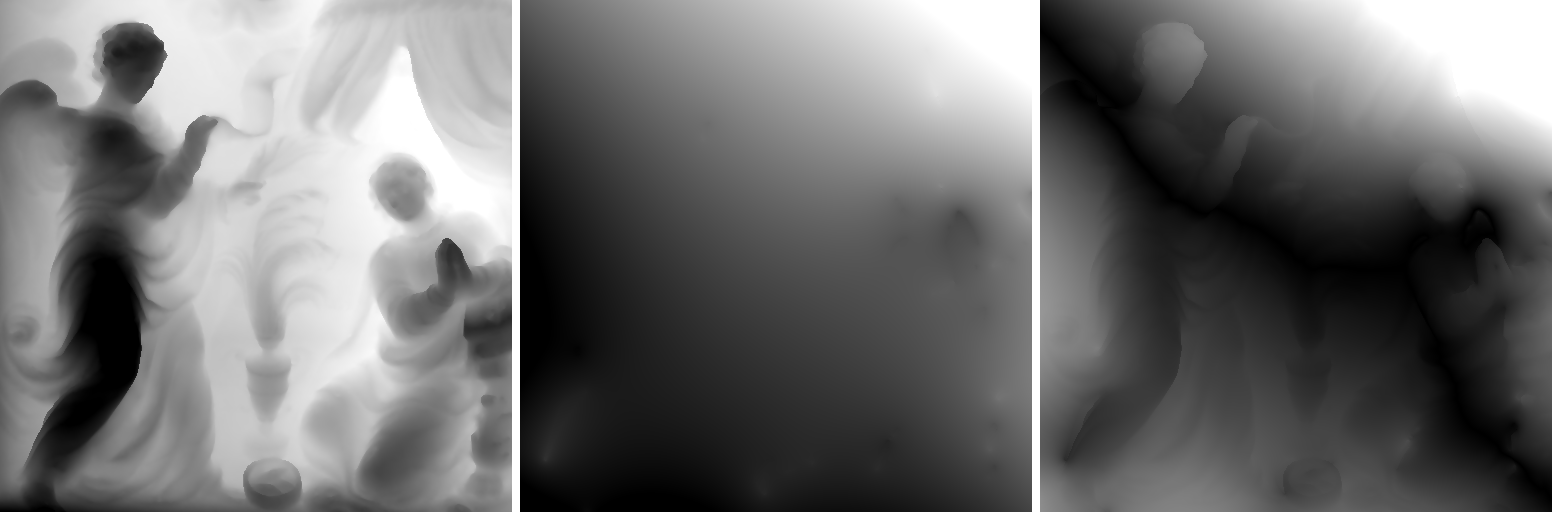
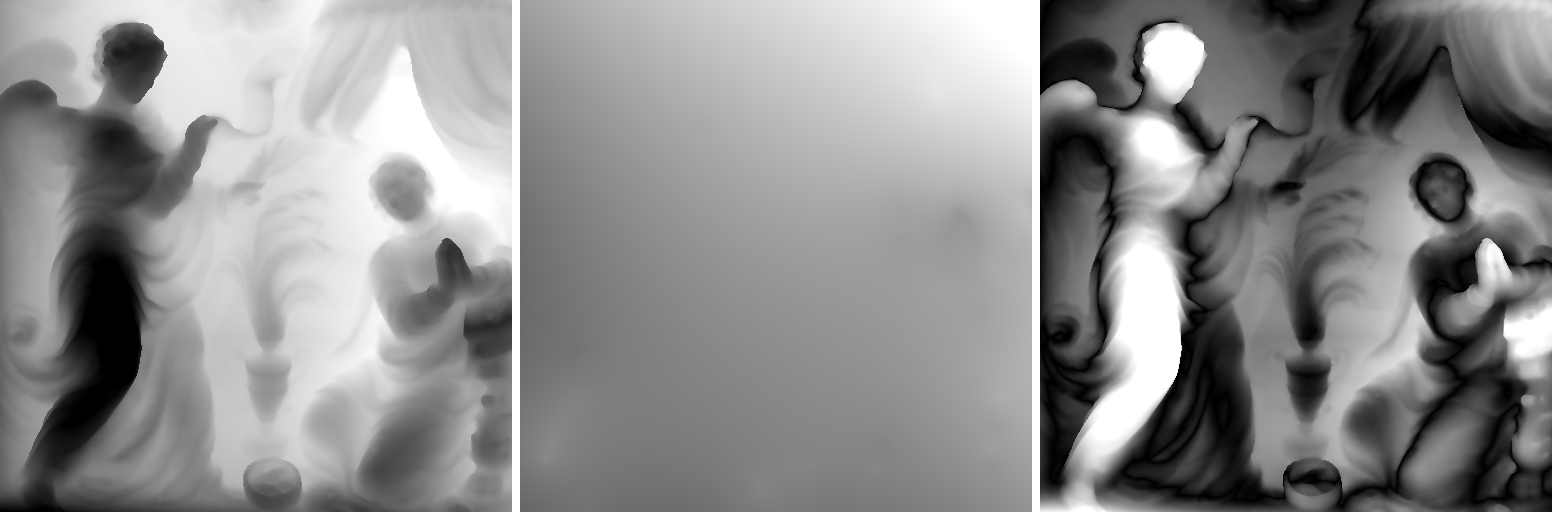
Depth eval alignment fix

diff --git a/evaluate_depth_error.py b/evaluate_depth_error.py
@@ -1,4 +1,3 @@
-# evaluate_depth_error.py
 import os
 import argparse
 import numpy as np
@@ -6,6 +5,7 @@ import cv2
 
 MM_PER_GT_UNIT = 5000.0 / 65535.0   # GT 16-bit unit -> mm
 MM_PER_PIXEL   = 4000.0 / 512.0     # pixel unit -> mm
+
 
 def find_gt_path(root):
     candidates = [
@@ -20,6 +20,7 @@ def find_gt_path(root):
         "Ground-truth depth not found. Tried:\n" + "\n".join(candidates)
     )
 
+
 def load_gt_mm(root):
     gt_path = find_gt_path(root)
     gt = cv2.imread(gt_path, cv2.IMREAD_UNCHANGED)
@@ -30,12 +31,14 @@ def load_gt_mm(root):
     gt_mm = gt.astype(np.float32) * MM_PER_GT_UNIT
     return gt_mm, gt_path
 
+
 def load_est_mm(root):
     z_path = os.path.join(root, "z_pix.npy")
     if not os.path.isfile(z_path):
         raise FileNotFoundError(f"{z_path} not found. Run the integrator to produce z_pix.npy.")
     z = np.load(z_path).astype(np.float32)
     return z * MM_PER_PIXEL, z_path
+
 
 def load_mask(root, shape):
     m = cv2.imread(os.path.join(root, "mask.png"), cv2.IMREAD_GRAYSCALE)
@@ -45,30 +48,39 @@ def load_mask(root, shape):
         raise ValueError(f"Mask shape {m.shape} does not match GT shape {shape}.")
     return m > 0
 
-def maybe_flip_sign(est_mm, gt_mm, mask):
-    est_v = est_mm[mask]
-    gt_v  = gt_mm[mask]
-    corr = np.corrcoef(est_v, gt_v)[0, 1]
-    if np.isnan(corr):
-        return est_mm, False
-    return (-est_mm, True) if corr < 0 else (est_mm, False)
 
-def align_zero(est_mm, gt_mm, mask):
-    delta = (gt_mm - est_mm)[mask]
-    offset = float(np.median(delta))
-    return est_mm + offset, offset
+def fit_affine_est_to_gt(est_mm, gt_mm, mask):
+    """
+    Solve gt ~ a*est + b in least squares sense on masked pixels.
+    Returns: est_aligned, a, b
+    """
+    est_v = est_mm[mask].reshape(-1, 1)
+    gt_v  = gt_mm[mask].reshape(-1, 1)
+    X = np.hstack([est_v, np.ones_like(est_v)])  # [est, 1]
+    (a, b), *_ = np.linalg.lstsq(X, gt_v, rcond=None)
+    a, b = float(a), float(b)
+    est_aligned = a * est_mm + b
+    return est_aligned, a, b
 
-def norm01_for_viz(x, mask, p_lo=2, p_hi=98):
+
+def norm01_for_viz(x, mask, p_lo=2, p_hi=98, lo_hi=None):
     x = x.copy()
     x[~mask] = np.nan
     v = x[np.isfinite(x)]
     if v.size == 0:
         return np.zeros_like(x, dtype=np.uint8)
-    lo, hi = np.percentile(v, p_lo), np.percentile(v, p_hi)
-    if hi <= lo: hi = lo + 1e-6
+
+    if lo_hi is None:
+        lo, hi = np.percentile(v, p_lo), np.percentile(v, p_hi)
+    else:
+        lo, hi = lo_hi
+
+    if hi <= lo: 
+        hi = lo + 1e-6
     y = (x - lo) / (hi - lo)
     y = np.clip(np.nan_to_num(y, nan=0.0), 0, 1)
     return (y * 255).astype(np.uint8)
+
 
 def save_artifacts(out_dir, gt_mm, est_mm_aligned, mask):
     os.makedirs(out_dir, exist_ok=True)
@@ -84,35 +96,24 @@ def save_artifacts(out_dir, gt_mm, est_mm_aligned, mask):
     err_u8 = (vis * 255).astype(np.uint8)
     cv2.imwrite(os.path.join(out_dir, "error_mm_abs.png"), err_u8)
 
-    # Normalized GT and estimate
-    gt_u8  = norm01_for_viz(gt_mm, mask)
-    est_u8 = norm01_for_viz(est_mm_aligned, mask)
+    # Shared normalization range (from GT)
+    v_gt = gt_mm[mask]
+    lo = np.percentile(v_gt, 2)
+    hi = np.percentile(v_gt, 98)
+    lo_hi = (lo, hi)
+
+    # Normalized GT and estimate with shared lo/hi
+    gt_u8  = norm01_for_viz(gt_mm, mask, lo_hi=lo_hi)
+    est_u8 = norm01_for_viz(est_mm_aligned, mask, lo_hi=lo_hi)
     cv2.imwrite(os.path.join(out_dir, "gt_mm_norm.png"), gt_u8)
     cv2.imwrite(os.path.join(out_dir, "est_mm_aligned_norm.png"), est_u8)
 
-    # Side-by-side
+    # Side-by-side panel
     h = gt_u8.shape[0]
     bar = np.full((h, 8), 255, np.uint8)
     panel = np.hstack([gt_u8, bar, est_u8, bar, err_u8])
     cv2.imwrite(os.path.join(out_dir, "compare_gt_est_err.png"), panel)
 
-    abs_err = np.full_like(gt_mm, np.nan, dtype=np.float32)
-    abs_err[mask] = np.abs(est_mm_aligned - gt_mm)[mask]
-
-    # Error heatmap
-    valid = abs_err[np.isfinite(abs_err)]
-    scale = max(np.percentile(valid, 95), 1e-6) if valid.size > 0 else 1.0
-    vis = np.clip(np.nan_to_num(abs_err, nan=0.0) / scale, 0, 1)
-    err_u8 = (vis * 255).astype(np.uint8)
-    cv2.imwrite(os.path.join(out_dir, "error_mm_abs.png"), err_u8)
-
-    # Side-by-side panel
-    gt_viz  = norm01_for_viz(gt_mm, mask)
-    est_viz = norm01_for_viz(est_mm_aligned, mask)
-    h = gt_viz.shape[0]
-    bar = np.full((h, 8), 255, np.uint8)
-    panel = np.hstack([gt_viz, bar, est_viz, bar, err_u8])
-    cv2.imwrite(os.path.join(out_dir, "compare_gt_est_err.png"), panel)
 
 def main():
     ap = argparse.ArgumentParser(description="Evaluate integrated depth (z_pix.npy) against GT depth.png")
@@ -131,8 +132,9 @@ def main():
     mask = load_mask(args.path, gt_mm.shape)
     valid = mask & np.isfinite(gt_mm) & np.isfinite(est_mm)
 
-    est_mm, flipped        = maybe_flip_sign(est_mm, gt_mm, valid)
-    est_mm_aligned, offset = align_zero(est_mm, gt_mm, valid)
+    # Fit affine transform
+    est_mm_aligned, a_scale, b_offset = fit_affine_est_to_gt(est_mm, gt_mm, valid)
+    flipped = (a_scale < 0)
 
     diff    = (est_mm_aligned - gt_mm)[valid]
     mae_mm  = float(np.mean(np.abs(diff)))
@@ -145,8 +147,8 @@ def main():
     print(f"Estimate path        : {z_path}")
     print(f"GT unit -> mm        : {MM_PER_GT_UNIT:.9f} mm / GT-unit")
     print(f"Pixel -> mm          : {MM_PER_PIXEL:.9f} mm / pixel")
-    print(f"Sign flipped         : {flipped}")
-    print(f"Applied zero offset  : {offset:.6f} mm")
+    print(f"Affine scale (a)     : {a_scale:.6f} ({'flip' if flipped else 'no flip'})")
+    print(f"Affine offset (b,mm) : {b_offset:.6f}")
     print(f"MAE                  : {mae_mm:.6f} mm   ({mae_px:.6f} px)")
     print(f"RMSE                 : {rmse_mm:.6f} mm  ({rmse_px:.6f} px)")
     print(f"Valid pixels         : {int(valid.sum())} / {gt_mm.size}")
@@ -157,10 +159,11 @@ def main():
     # Save CSV metrics
     csv_path = os.path.join(out_dir, "depth_eval_metrics.csv")
     with open(csv_path, "w") as f:
-        f.write("gt_path,z_path,mm_per_gt_unit,mm_per_pixel,flipped,offset_mm,mae_mm,rmse_mm,mae_px,rmse_px,valid_px,total_px\n")
-        f.write(f"{gt_path},{z_path},{MM_PER_GT_UNIT},{MM_PER_PIXEL},{int(flipped)},{offset:.6f},{mae_mm:.6f},{rmse_mm:.6f},{mae_px:.6f},{rmse_px:.6f},{int(valid.sum())},{gt_mm.size}\n")
+        f.write("gt_path,z_path,mm_per_gt_unit,mm_per_pixel,a_scale,b_offset,mae_mm,rmse_mm,mae_px,rmse_px,valid_px,total_px\n")
+        f.write(f"{gt_path},{z_path},{MM_PER_GT_UNIT},{MM_PER_PIXEL},{a_scale:.6f},{b_offset:.6f},{mae_mm:.6f},{rmse_mm:.6f},{mae_px:.6f},{rmse_px:.6f},{int(valid.sum())},{gt_mm.size}\n")
 
     print(f"Results saved to: {out_dir}")
+
 
 if __name__ == "__main__":
     main()

diff --git a/README.md b/README.md
@@ -47,19 +47,20 @@ Produced after changes in [commit 8e735c6](https://github.com/MrzAhmadi/bilatera
   `mm_per_pixel = 4000 / 512 = 7.8125 mm/pixel`
 
 **Alignment Details**
-- Sign flipped: **Yes**
-- Applied zero offset: **4849.739258 mm** (~4.85 m)
+- Sign flipped: **Yes (via affine scale a = -0.035702)**
+- Applied zero offset: **4825.830566 mm** (~4.83 m)
 
 **Metrics (GT Normals)**
 | Metric | Value (mm) | Value (px) |
 |---|---:|---:|
-| MAE | **733.578369** | **93.898031** |
-| RMSE | **915.681335** | **117.207211** |
+| MAE | **71.553513** | **9.158850** |
+| RMSE | **88.578079** | **11.337994** |
 
 **Visual Results**
 | Ground Truth | Aligned Estimate | Absolute Error (mm) |
-|---|---|---|
-| ![GT](data/Fig8_wallrelief/eval_results/gt_mm_norm.png) | ![Estimate](data/Fig8_wallrelief/eval_results/est_mm_aligned_norm.png) | ![Error](data/Fig8_wallrelief/eval_results/error_mm_abs.png) |
+|--------------|------------------|---------------------|
+| <img src="data/Fig8_wallrelief/eval_results/gt_mm_norm.png" width="256"/> | <img src="data/Fig8_wallrelief/eval_results/est_mm_aligned_norm.png" width="256"/> | <img src="data/Fig8_wallrelief/eval_results/error_mm_abs.png" width="256"/> |
+
 
 ---
 
@@ -84,13 +85,13 @@ python evaluate_depth_error.py --path data/Fig8_wallrelief_ps
 ### Metrics (PS Normals)
 | Metric | Value (mm) | Value (px) |
 |---|---:|---:|
-| MAE | **667.974182** | **85.500695** |
-| RMSE | **892.293030** | **114.213508** |
+| MAE | **65.562279** | **8.391972** |
+| RMSE | **80.596222** | **10.316316** |
 
 ### Visual Results (PS Normals)
 | Ground Truth | Aligned Estimate | Absolute Error (mm) |
-|---|---|---|
-| ![GT](data/Fig8_wallrelief_ps/eval_results/gt_mm_norm.png) | ![Estimate](data/Fig8_wallrelief_ps/eval_results/est_mm_aligned_norm.png) | ![Error](data/Fig8_wallrelief_ps/eval_results/error_mm_abs.png) |
+|--------------|------------------|---------------------|
+| <img src="data/Fig8_wallrelief_ps/eval_results/gt_mm_norm.png" width="256"/> | <img src="data/Fig8_wallrelief_ps/eval_results/est_mm_aligned_norm.png" width="256"/> | <img src="data/Fig8_wallrelief_ps/eval_results/error_mm_abs.png" width="256"/> |
 
 ---
 
